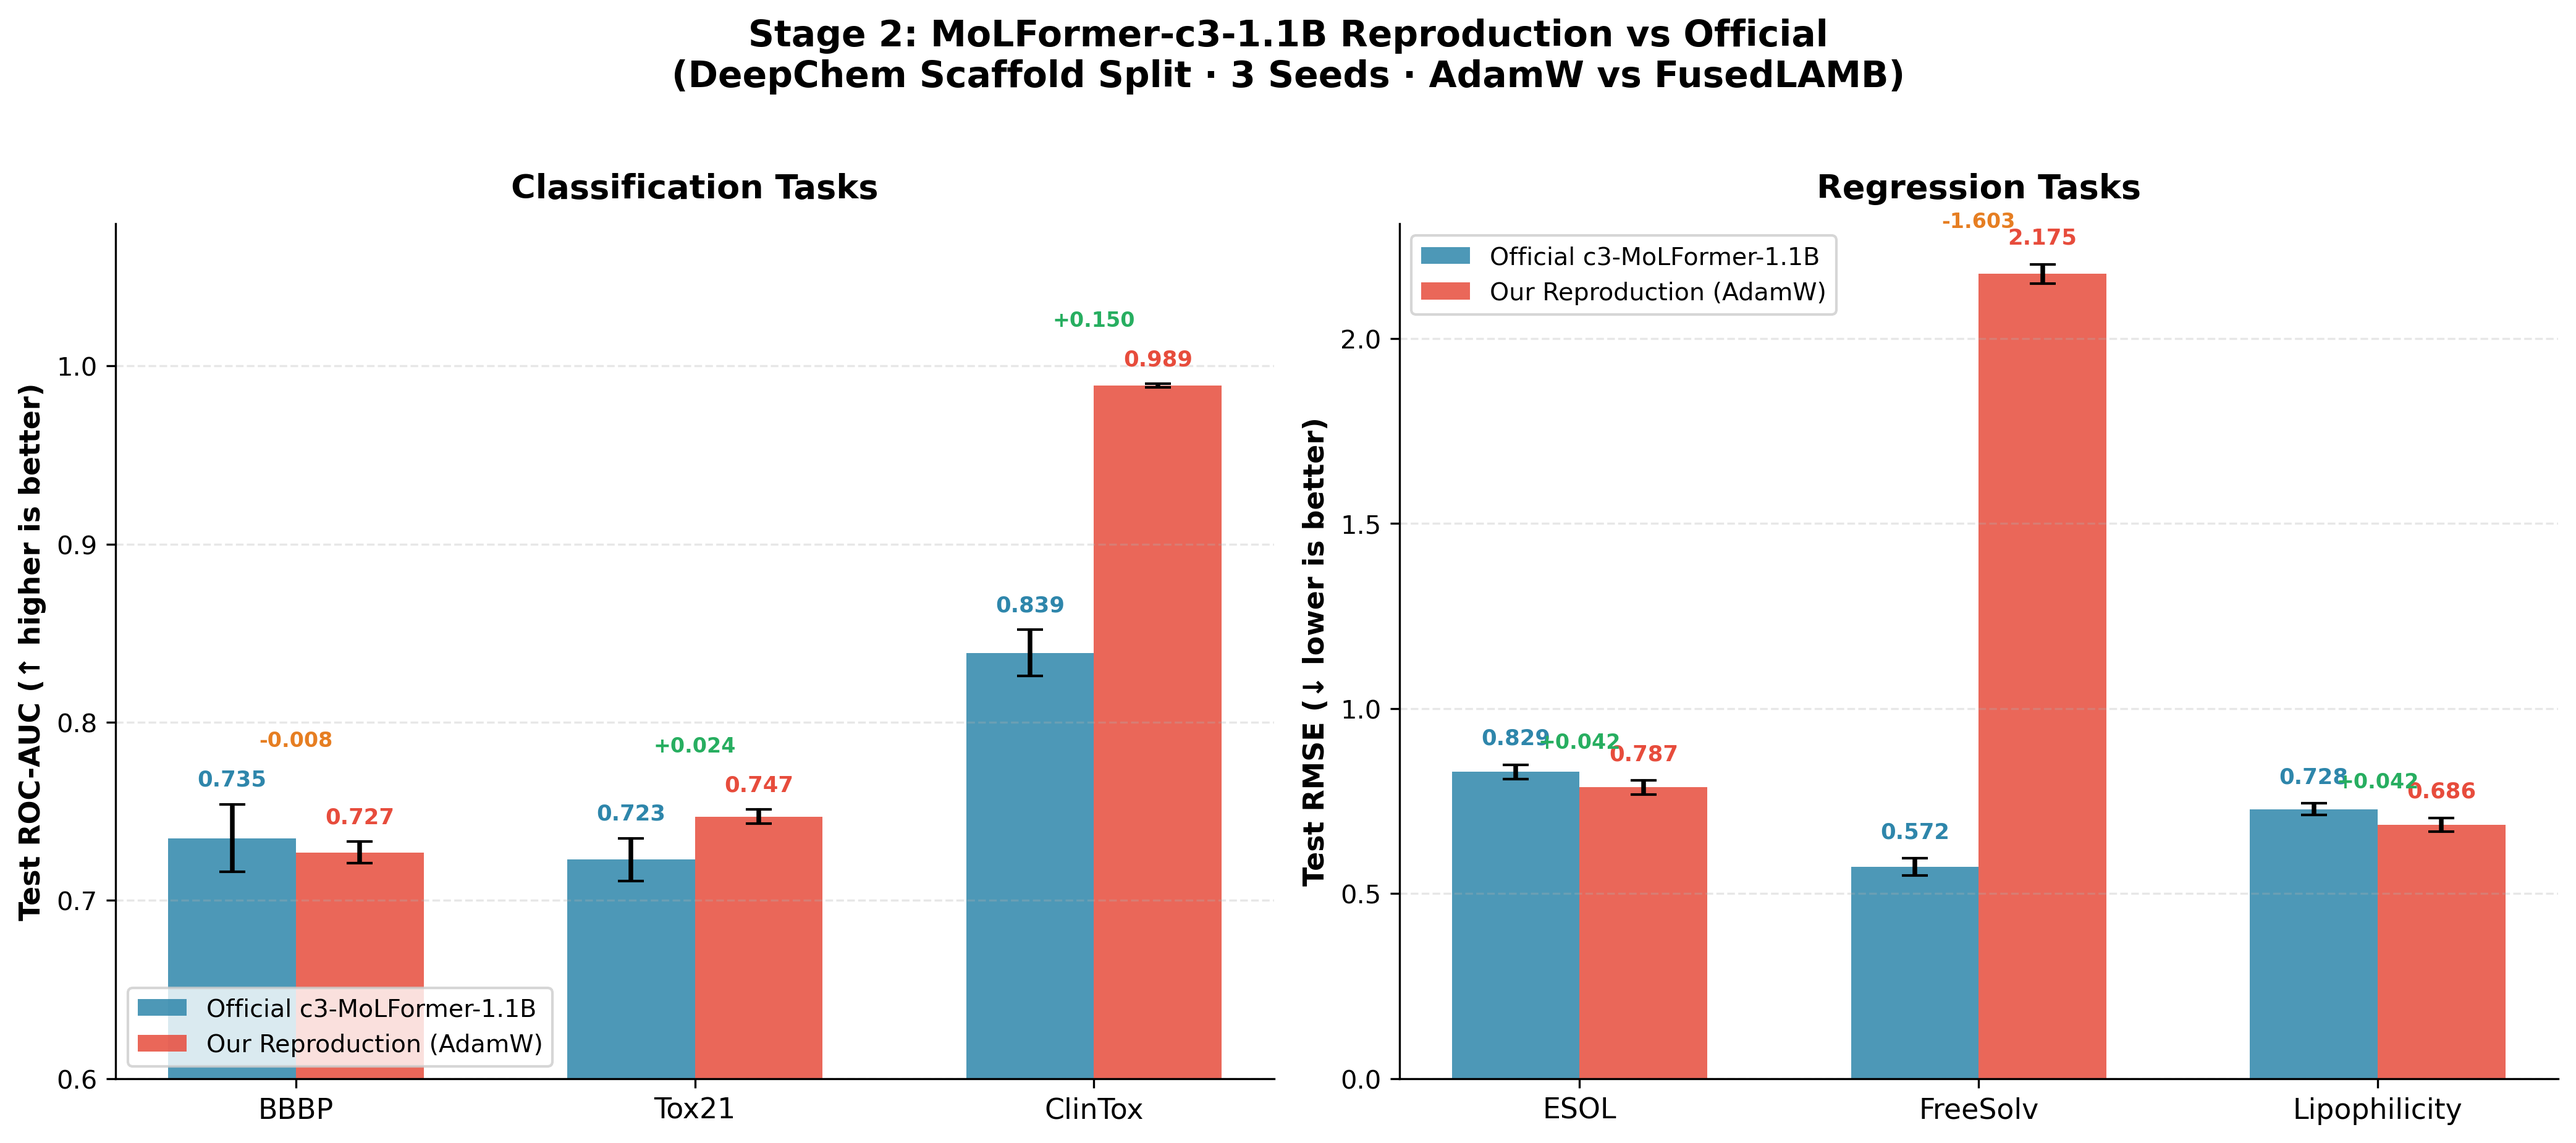
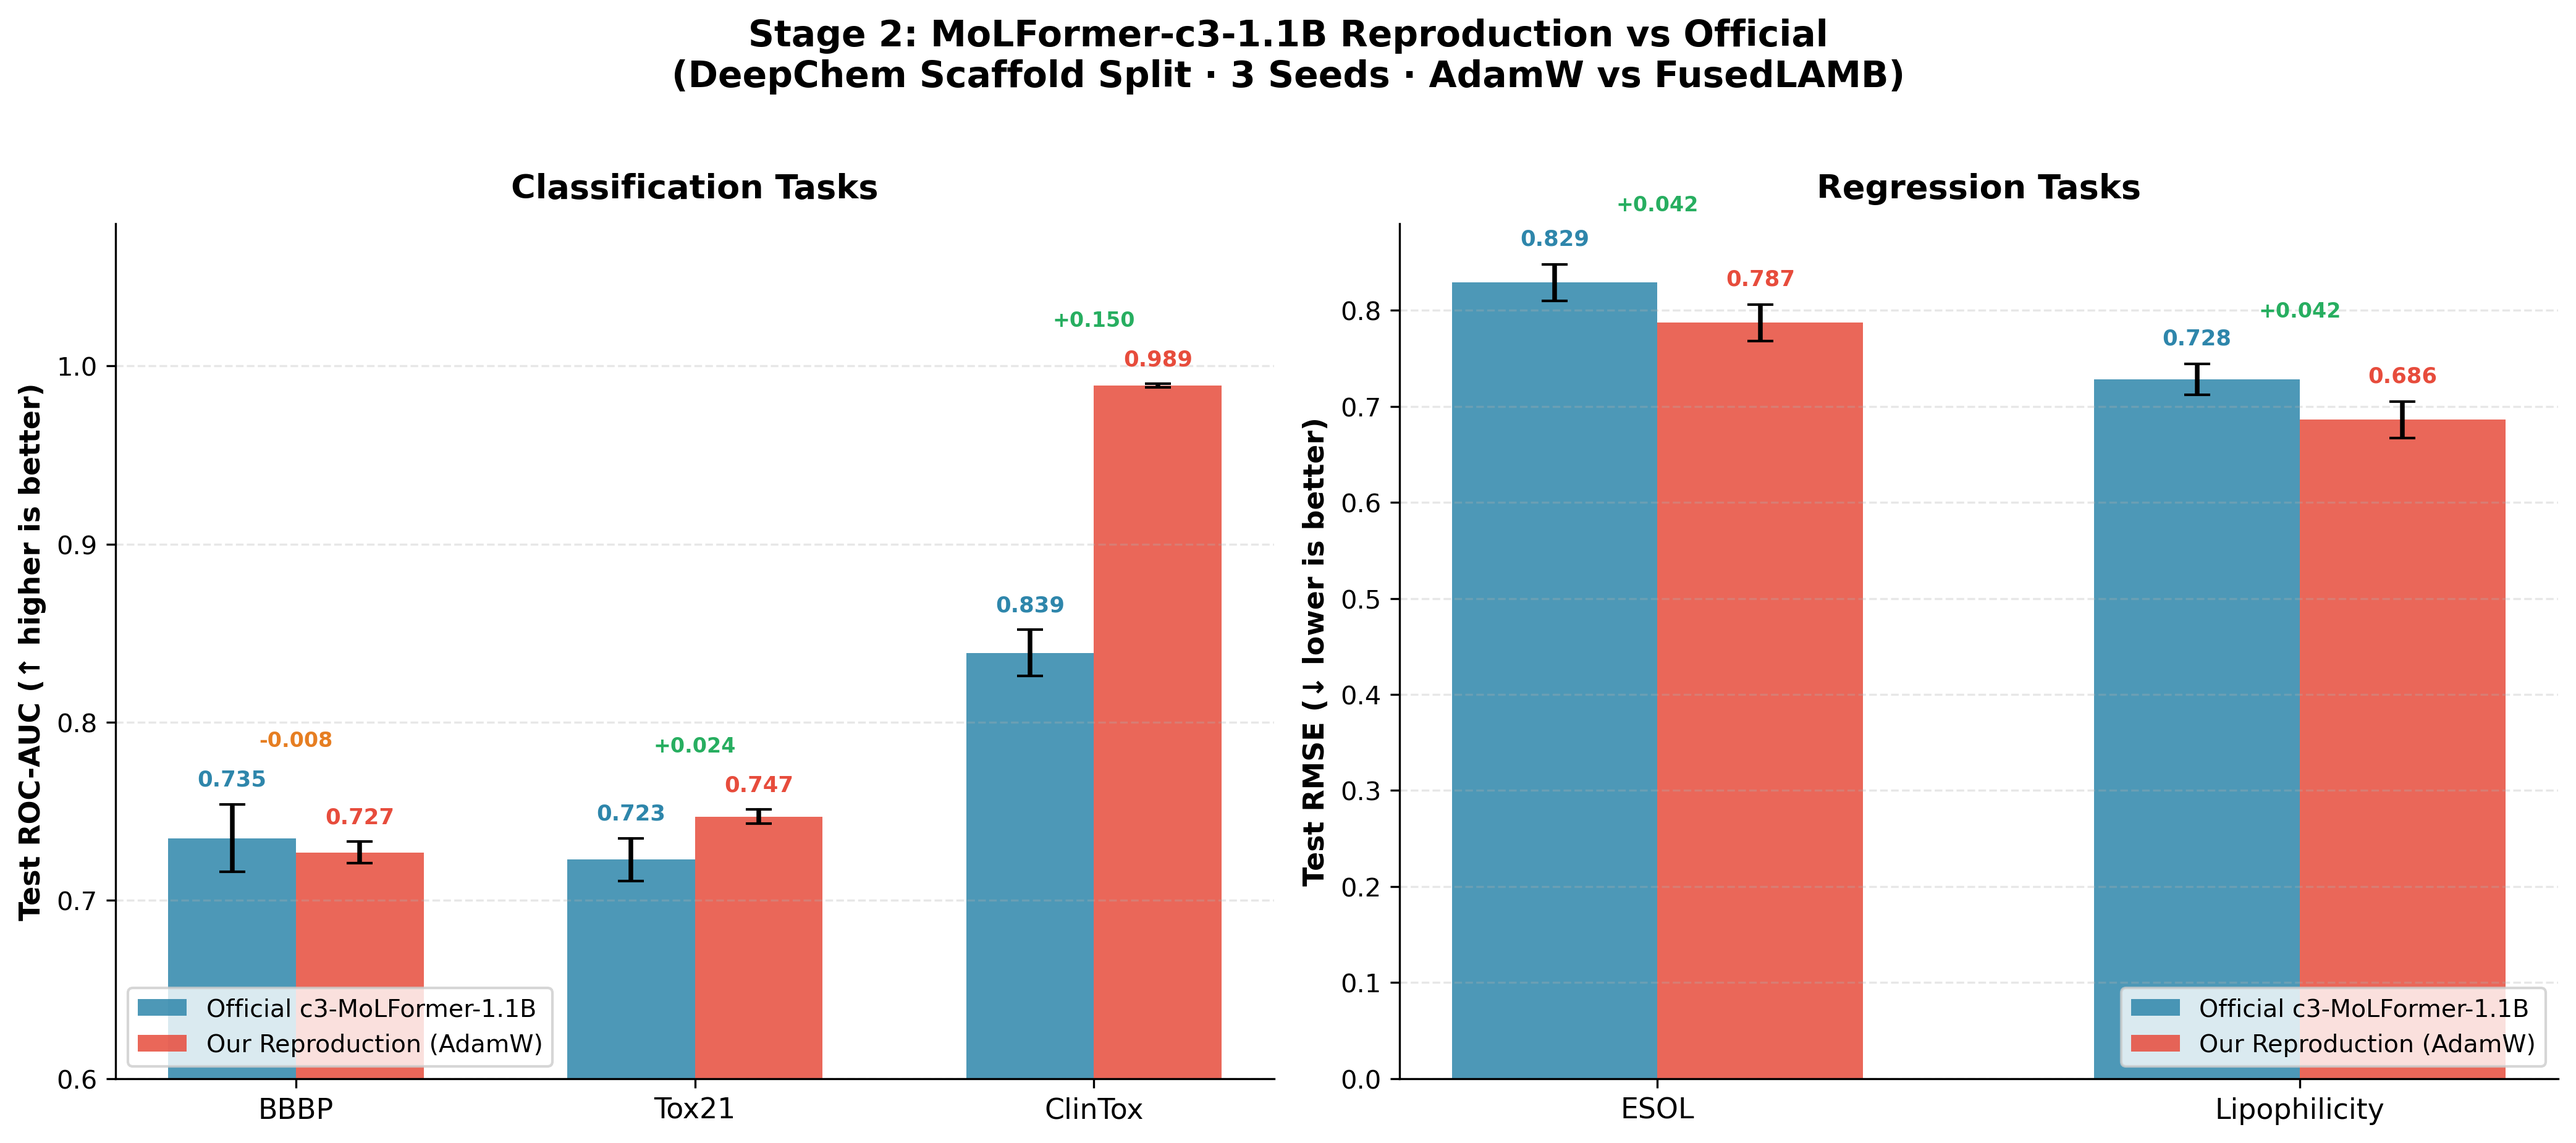
Remove FreeSolv from comparison plot (keep data in report)
Made-with: Cursor

Changed region(s): [[0.5301, 0.1849, 0.9978, 0.9859], [0.8731, 0.2465, 0.9043, 0.2773], [0.6237, 0.1541, 0.6548, 0.1849]]

diff --git a/generate_stage2_comparison.py b/generate_stage2_comparison.py
@@ -12,11 +12,11 @@ import os
 # Source: https://github.com/deepforestsci/chemberta3
 #         results/images/Deepchem-splits-benchmark1.png
 official_cls  = {"BBBP": (0.735, 0.019), "Tox21": (0.723, 0.012), "ClinTox": (0.839, 0.013)}
-official_reg  = {"ESOL": (0.829, 0.019), "FreeSolv": (0.572, 0.023), "Lipophilicity": (0.728, 0.016)}
+official_reg  = {"ESOL": (0.829, 0.019), "Lipophilicity": (0.728, 0.016)}
 
 # Our reproduction (DeepChem scaffold split, AdamW, HuggingFace)
 ours_cls = {"BBBP": (0.727, 0.006), "Tox21": (0.747, 0.004), "ClinTox": (0.989, 0.001)}
-ours_reg = {"ESOL": (0.787, 0.019), "FreeSolv": (2.175, 0.026), "Lipophilicity": (0.686, 0.019)}
+ours_reg = {"ESOL": (0.787, 0.019), "Lipophilicity": (0.686, 0.019)}
 
 COLOR_OFFICIAL = "#2E86AB"
 COLOR_OURS     = "#E74C3C"
@@ -59,7 +59,7 @@ def plot_bars(ax, official, ours, ylabel, title, ylim=None, higher_better=True):
         diff = abs(um - om)
         sign = "+" if ours_wins else "-"
         top = max(om + official[d][1], um + ours[d][1])
-        offset = top * 0.04 if not higher_better else 0.03
+        offset = top * 0.06 if not higher_better else 0.03
         ax.text(i, top + offset, f"{sign}{diff:.3f}", ha="center", va="bottom",
                 fontsize=8, color=color, fontweight="bold")
 
@@ -67,7 +67,7 @@ def plot_bars(ax, official, ours, ylabel, title, ylim=None, higher_better=True):
     ax.set_xticklabels(datasets, fontsize=11)
     ax.set_ylabel(ylabel, fontsize=11, fontweight="bold")
     ax.set_title(title, fontsize=13, fontweight="bold", pad=10)
-    ax.legend(fontsize=9.5, loc="upper left" if not higher_better else "lower left")
+    ax.legend(fontsize=9.5, loc="lower right" if not higher_better else "lower left")
     ax.grid(axis="y", alpha=0.3, linestyle="--")
     ax.spines["top"].set_visible(False)
     ax.spines["right"].set_visible(False)
